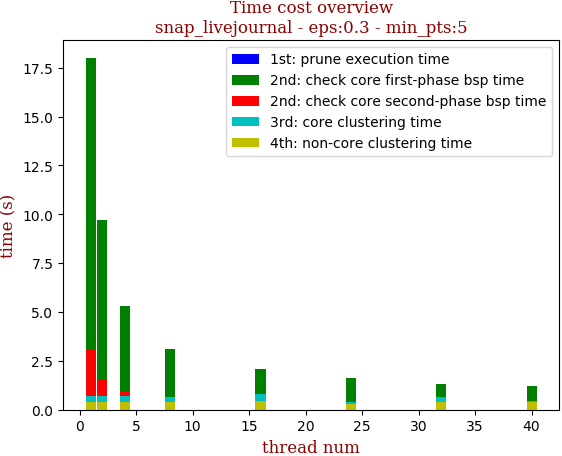
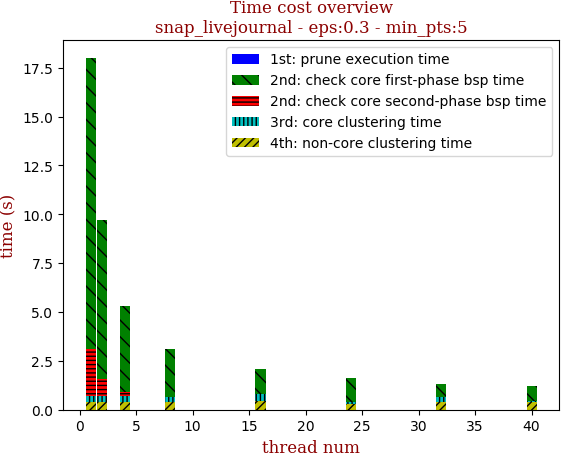
update scalability figure

diff --git a/python_experiments/scalability_figure.py b/python_experiments/scalability_figure.py
@@ -76,10 +76,11 @@ def display_overview(statistics_dic, title_append_txt=''):
     # draw after get data, with partial binding technique
     thread_lst, time_lst_lst = post_process()
     shape_color_lst = ['b', 'g', 'r', 'c', 'y', 'm', 'k--']
+    hatch_lst = ['', '\\\\', '----', '||||', '////']
     cur_shape_color_idx = 0
     for time_lst in time_lst_lst[:-1]:
         plt.bar(thread_lst, map(lambda integer: float(integer) / 1000, time_lst), width=0.9,
-                color=shape_color_lst[cur_shape_color_idx])
+                color=shape_color_lst[cur_shape_color_idx], hatch=hatch_lst[cur_shape_color_idx])
         cur_shape_color_idx += 1
 
     plt.legend(tag_list)
